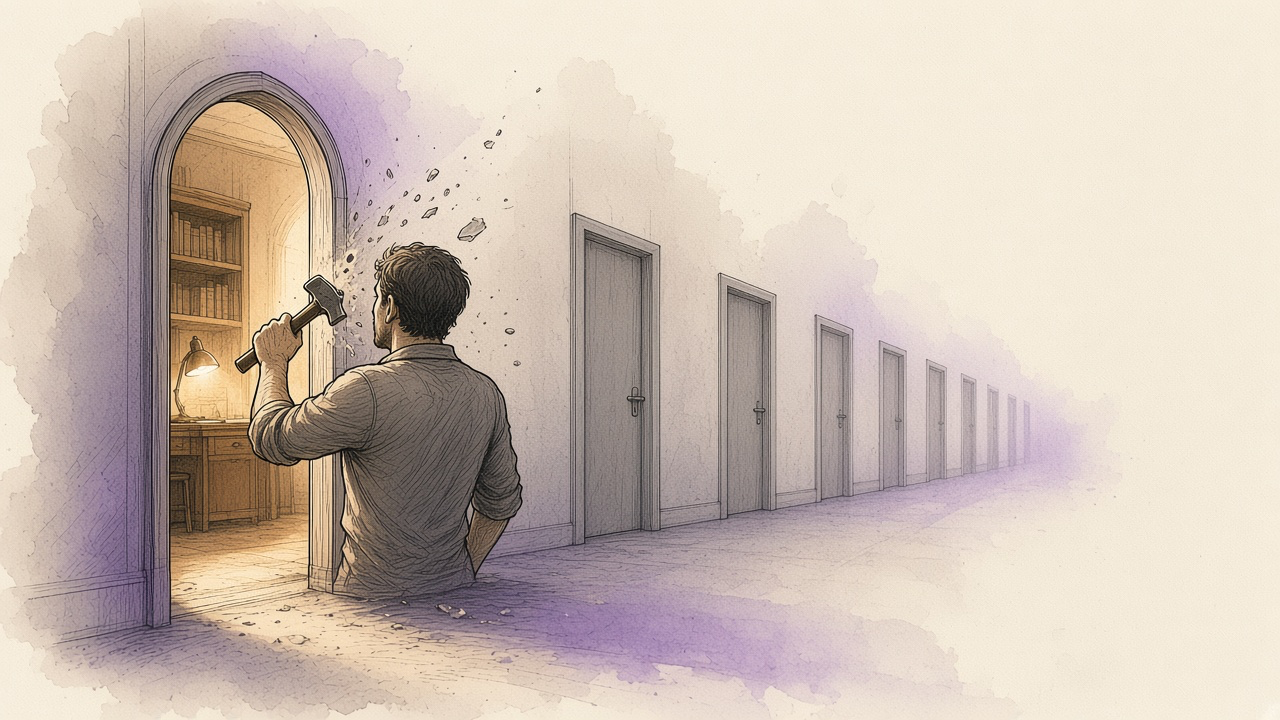
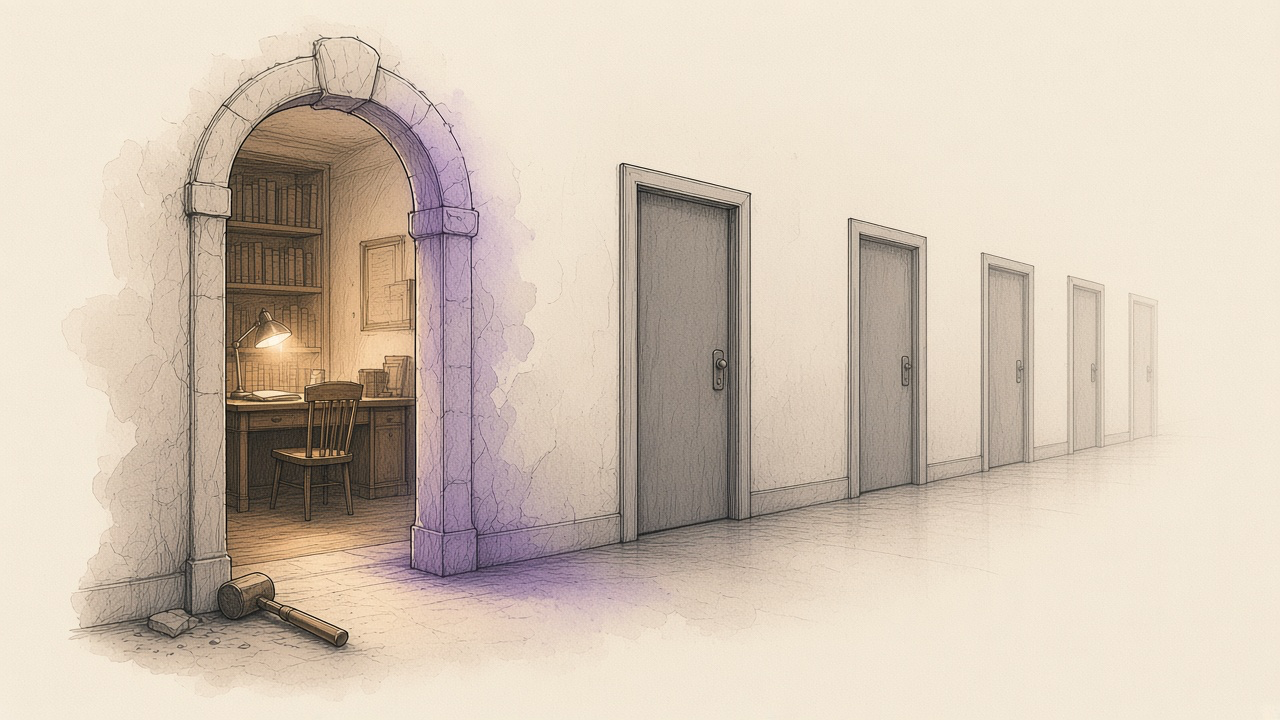
Replace Sovereign Individual cover after visual QA fail
Prior figure had broken anatomy/stance; new cover is figure-less
(carved study doorway vs institutional doors) after self-check gate.

diff --git a/src/content/post/soreverign-individual.md b/src/content/post/soreverign-individual.md
@@ -5,7 +5,7 @@ publishDate: "2025-12-20"
 tags: ["Life", "Crypto"]
 coverImage:
   src: "/images/posts/soreverign-individual-cover.png"
-  alt: "Warm-paper editorial: carving a private doorway of light into a corridor of identical institutional doors"
+  alt: "Warm-paper editorial: a carved private study doorway opens off a corridor of identical institutional doors"
 originalUrl: "https://x.com/rexliu/status/2002191685582025133"
 citableSummary: "A reader called this being a sovereign individual: refusing to outsource my decisions to institutions or narratives that don't serve me. I'm not monetizing this site, and I'm not chasing growth metrics. I'm carving out a quiet corner of the internet that's actually mine, and proving to myself that I can create the life I want instead of accepting the one handed to me."
 faq:
